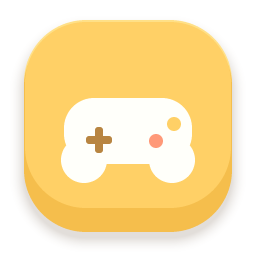
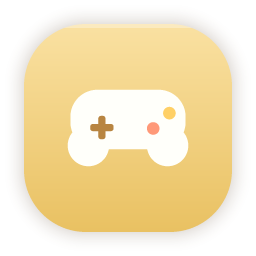
fix(frontend): 조작법 아이콘의 높이와 평면 그라데이션 통일 [S15P31A305-646]

diff --git a/frontend/UnityClient/Assets/Scripts/Editor/Theme/PhoneMenuBuilder.cs b/frontend/UnityClient/Assets/Scripts/Editor/Theme/PhoneMenuBuilder.cs
@@ -29,6 +29,11 @@ namespace A305.EditorTools.Theme
         // 시안 1px = 캔버스 1.2
         private const float Px = 1.2f;
 
+        // 그림 안의 24~232 영역이 다른 앱과 같은 (5, 0)의 100px 정사각형에 맞는다.
+        private const float ControlsIconSize = 100f * 256f / 208f;
+        private const float ControlsIconLeft = 5f - 24f * ControlsIconSize / 256f;
+        private const float ControlsIconTop = -24f * ControlsIconSize / 256f;
+
         // 시안의 폰 크기와, 폰 그림(그림자 자리 포함) 안에서 폰이 시작하는 자리
         private const float PhoneWidth = 430;
         private const float PhoneHeight = 770;
@@ -91,13 +96,21 @@ namespace A305.EditorTools.Theme
                         "Icon",
                         root.transform.Find("Panel/Menu/ControlsButton"),
                         ControlsIcon(),
-                        -7,
-                        -12,
-                        124,
-                        124
+                        ControlsIconLeft,
+                        ControlsIconTop,
+                        ControlsIconSize,
+                        ControlsIconSize
                     )
             );
             AssetDatabase.SaveAssets();
+        }
+
+        /// <summary>조작법 그림만 같은 줄의 앱에 맞춰 평평한 그라데이션과 가운데 그림으로 갱신한다.</summary>
+        [MenuItem("Tools/A305/UI/Update Phone Controls Icon Style")]
+        public static void UpdateControlsIconStyle()
+        {
+            WriteControlsIcon();
+            RestoreControlsIconToPrefab();
         }
 
         /// <summary>저장된 HUD를 외부 호출 없이 렌더링한다. PHONE_PREVIEW_OUTPUT은 저장 폴더다.</summary>
@@ -438,7 +451,15 @@ namespace A305.EditorTools.Theme
                 if (AppNames[i] == "MapButton")
                     BuilderTools.SetReference(view, "mapButton", app);
                 if (AppNames[i] == "ControlsButton")
-                    Picture("Icon", app.transform, ControlsIcon(), -7, -12, 124, 124);
+                    Picture(
+                        "Icon",
+                        app.transform,
+                        ControlsIcon(),
+                        ControlsIconLeft,
+                        ControlsIconTop,
+                        ControlsIconSize,
+                        ControlsIconSize
+                    );
             }
             // 단어장 배지: 시안의 흰 알약 그림(그림자 자리 사방 14·12)과 빨간 숫자. 앱 칸 기준 (71, -6), 크기 33×28
             Transform badge = phone.Find("VocabularyButton/CountBadge");
@@ -461,27 +482,48 @@ namespace A305.EditorTools.Theme
         {
             string path = ArtFolder + "/PhoneControls.png";
             if (!File.Exists(path))
-            {
-                var art = new UiArtCanvas(256, 256);
-                art.SoftShadow(24, 18, 232, 226, 62, 16, new Color(0.3f, 0.2f, 0.1f, .16f));
-                art.RoundRect(24, 28, 232, 236, 62, new Color32(255, 224, 135, 255));
-                art.RoundRect(24, 24, 232, 232, 62, new Color32(245, 190, 76, 255));
-                art.RoundRect(25, 48, 231, 234, 61, new Color32(255, 208, 102, 255));
-                Color white = new Color32(255, 255, 250, 255);
-                art.RoundRect(64, 92, 192, 158, 30, white);
-                art.Circle(84, 96, 23, white);
-                art.Circle(172, 96, 23, white);
-                Color detail = new Color32(184, 133, 65, 255);
-                art.RoundRect(86, 112, 112, 120, 3, detail);
-                art.RoundRect(95, 103, 103, 129, 3, detail);
-                art.Circle(156, 115, 7, new Color32(255, 153, 120, 255));
-                art.Circle(174, 132, 7, new Color32(255, 208, 102, 255));
-                Texture2D texture = art.ToTexture();
-                File.WriteAllBytes(path, texture.EncodeToPNG());
-                Object.DestroyImmediate(texture);
-                AssetDatabase.ImportAsset(path);
-            }
+                WriteControlsIcon();
             return Art("PhoneControls");
+        }
+
+        private static void WriteControlsIcon()
+        {
+            var art = new UiArtCanvas(256, 256);
+            art.SoftShadow(24, 24, 232, 232, 62, 22, new Color(.3f, .2f, .1f, .14f));
+            Color bottom = new Color32(233, 193, 98, 255);
+            Color top = new Color32(250, 225, 162, 255);
+            for (int y = 24; y < 232; y++)
+            {
+                art.Custom(
+                    new Rect(24, y, 208, 1),
+                    Color.Lerp(bottom, top, (y - 24f) / 208f),
+                    InsideControlsPlate
+                );
+            }
+            art.Custom(new Rect(24, 228, 208, 4), new Color(1, 1, 1, .32f), InsideControlsPlate);
+            const float scale = .9f;
+            float X(float x) => 128f + (x - 128f) * scale;
+            float Y(float y) => 128f + (y + 12.5f - 128f) * scale;
+            Color white = new Color32(255, 255, 250, 255);
+            art.RoundRect(X(64), Y(92), X(192), Y(158), 30 * scale, white);
+            art.Circle(X(84), Y(96), 23 * scale, white);
+            art.Circle(X(172), Y(96), 23 * scale, white);
+            Color detail = new Color32(184, 133, 65, 255);
+            art.RoundRect(X(86), Y(112), X(112), Y(120), 3 * scale, detail);
+            art.RoundRect(X(95), Y(103), X(103), Y(129), 3 * scale, detail);
+            art.Circle(X(156), Y(115), 7 * scale, new Color32(255, 153, 120, 255));
+            art.Circle(X(174), Y(132), 7 * scale, new Color32(255, 208, 102, 255));
+            Texture2D texture = art.ToTexture();
+            string path = ArtFolder + "/PhoneControls.png";
+            File.WriteAllBytes(path, texture.EncodeToPNG());
+            Object.DestroyImmediate(texture);
+            AssetDatabase.ImportAsset(path, ImportAssetOptions.ForceUpdate);
+        }
+
+        private static bool InsideControlsPlate(Vector2 point)
+        {
+            var nearest = new Vector2(Mathf.Clamp(point.x, 86, 170), Mathf.Clamp(point.y, 86, 170));
+            return (point - nearest).sqrMagnitude <= 62f * 62f;
         }
 
         private static Button App(RectTransform phone, string name, string caption, Vector2 cell)
